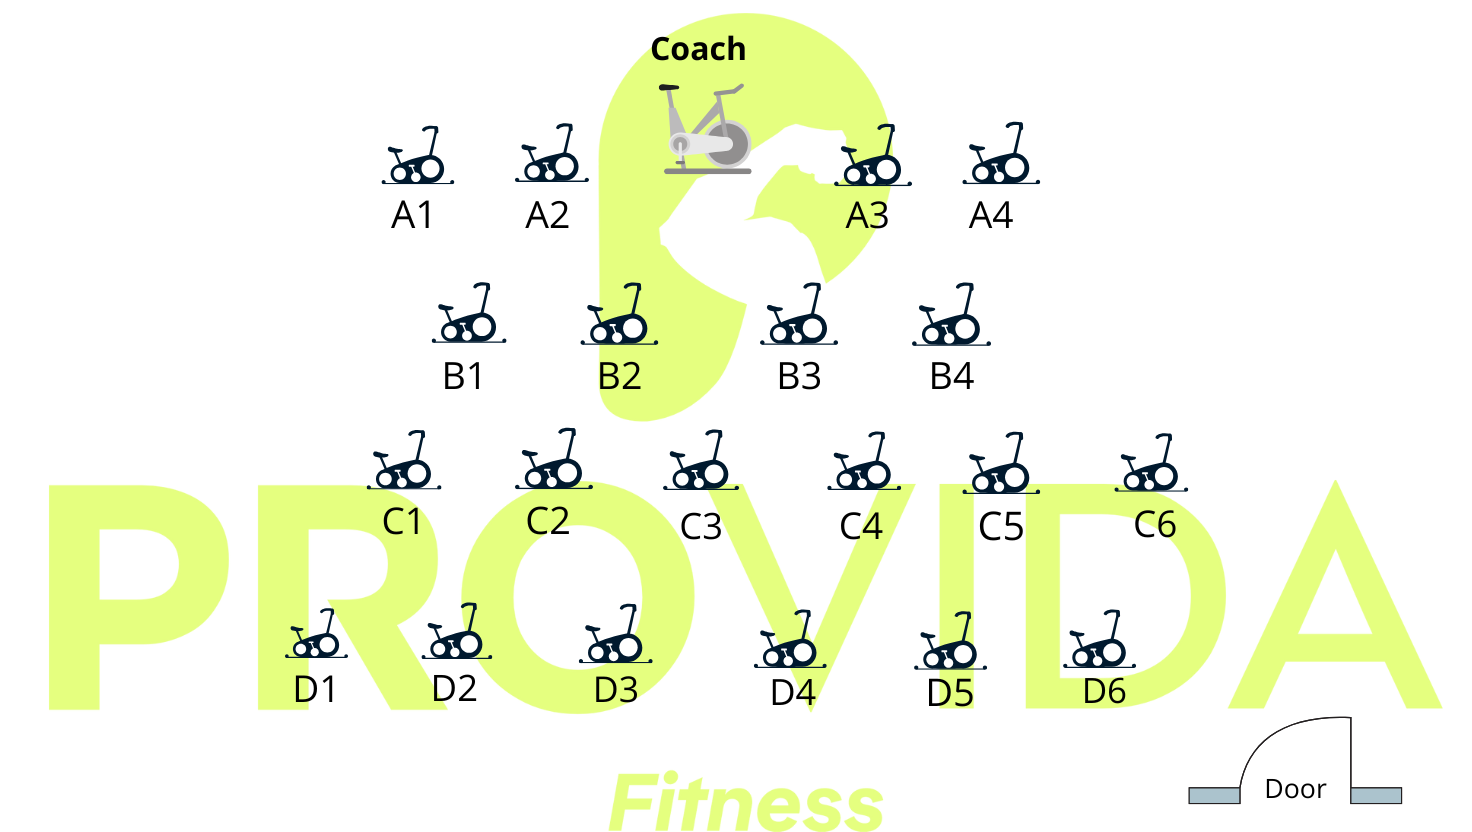
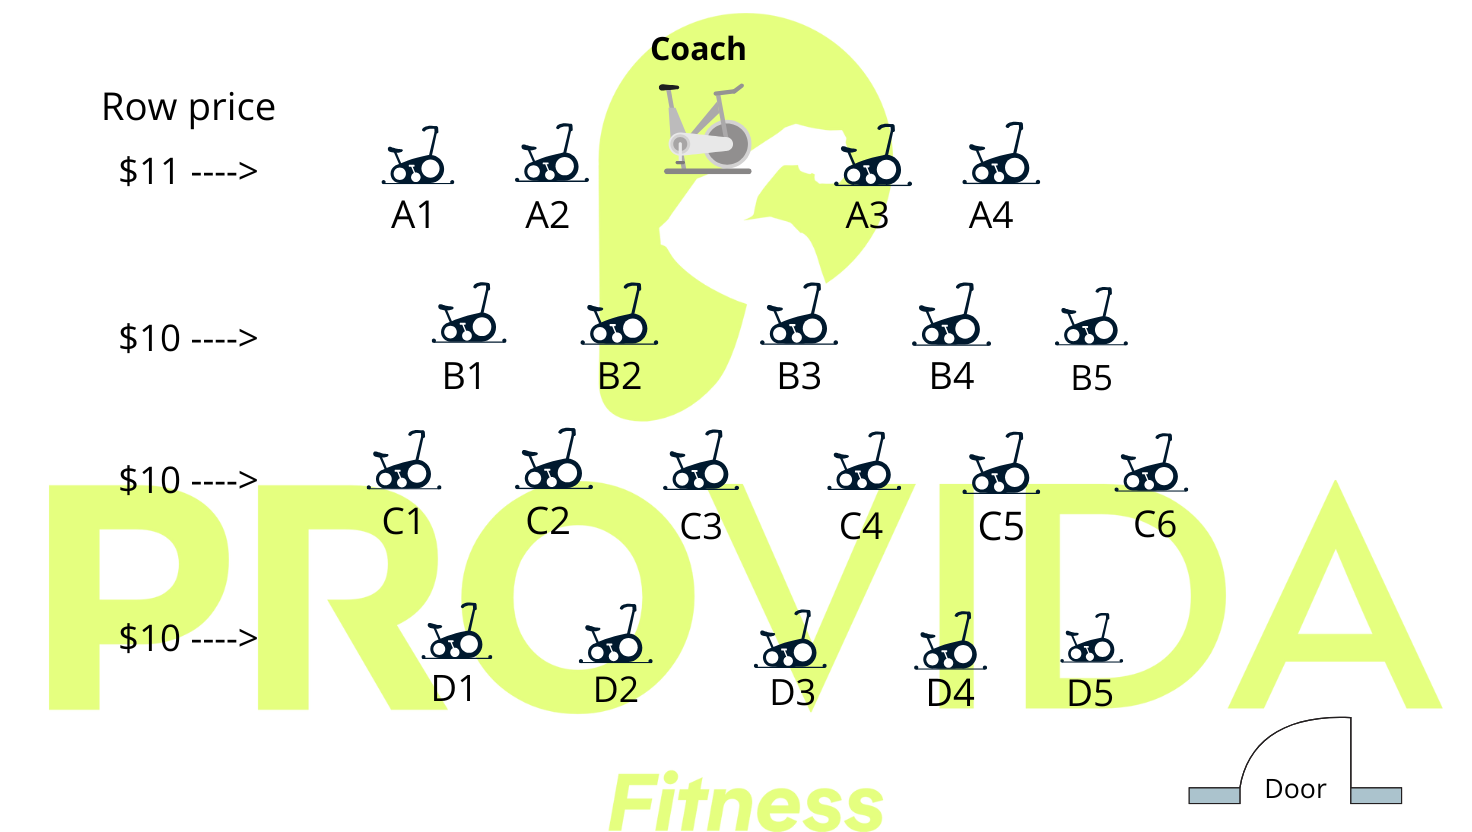
feat: actualizar asientos y resena

diff --git a/index.html b/index.html
@@ -286,18 +286,18 @@
         <div class="seat available" data-seat="B2" style="top: 37%; left: 43.5%;"></div>
         <div class="seat available" data-seat="B3" style="top: 37%; left: 56%;"></div>
         <div class="seat available" data-seat="B4" style="top: 37%; left: 66%;"></div>
+        <div class="seat available" data-seat="B5" style="top: 37%; left: 76%;"></div>
         <div class="seat available" data-seat="C1" style="top: 56%; left: 30%;"></div>
         <div class="seat available" data-seat="C2" style="top: 56%; left: 39%;"></div>
         <div class="seat available" data-seat="C3" style="top: 56%; left: 49.5%;"></div>
         <div class="seat available" data-seat="C4" style="top: 56%; left: 60%;"></div>
         <div class="seat available" data-seat="C5" style="top: 56%; left: 70%;"></div>
         <div class="seat available" data-seat="C6" style="top: 56%; left: 79%;"></div>
-        <div class="seat available" data-seat="D1" style="top: 76%; left: 23%;"></div>
-        <div class="seat available" data-seat="D2" style="top: 76%; left: 33%;"></div>
-        <div class="seat available" data-seat="D3" style="top: 76%; left: 43%;"></div>
-        <div class="seat available" data-seat="D4" style="top: 76.5%; left: 55%;"></div>
-        <div class="seat available" data-seat="D5" style="top: 76.5%; left: 66.5%;"></div>
-        <div class="seat available" data-seat="D6" style="top: 76.5%; left: 76%;"></div>
+        <div class="seat available" data-seat="D1" style="top: 76%; left: 33%;"></div>
+        <div class="seat available" data-seat="D2" style="top: 76%; left: 43%;"></div>
+        <div class="seat available" data-seat="D3" style="top: 76.5%; left: 55%;"></div>
+        <div class="seat available" data-seat="D4" style="top: 76.5%; left: 66.5%;"></div>
+        <div class="seat available" data-seat="D5" style="top: 76.5%; left: 76%;"></div>
     </div>
     
     <form id="reservaForm">
